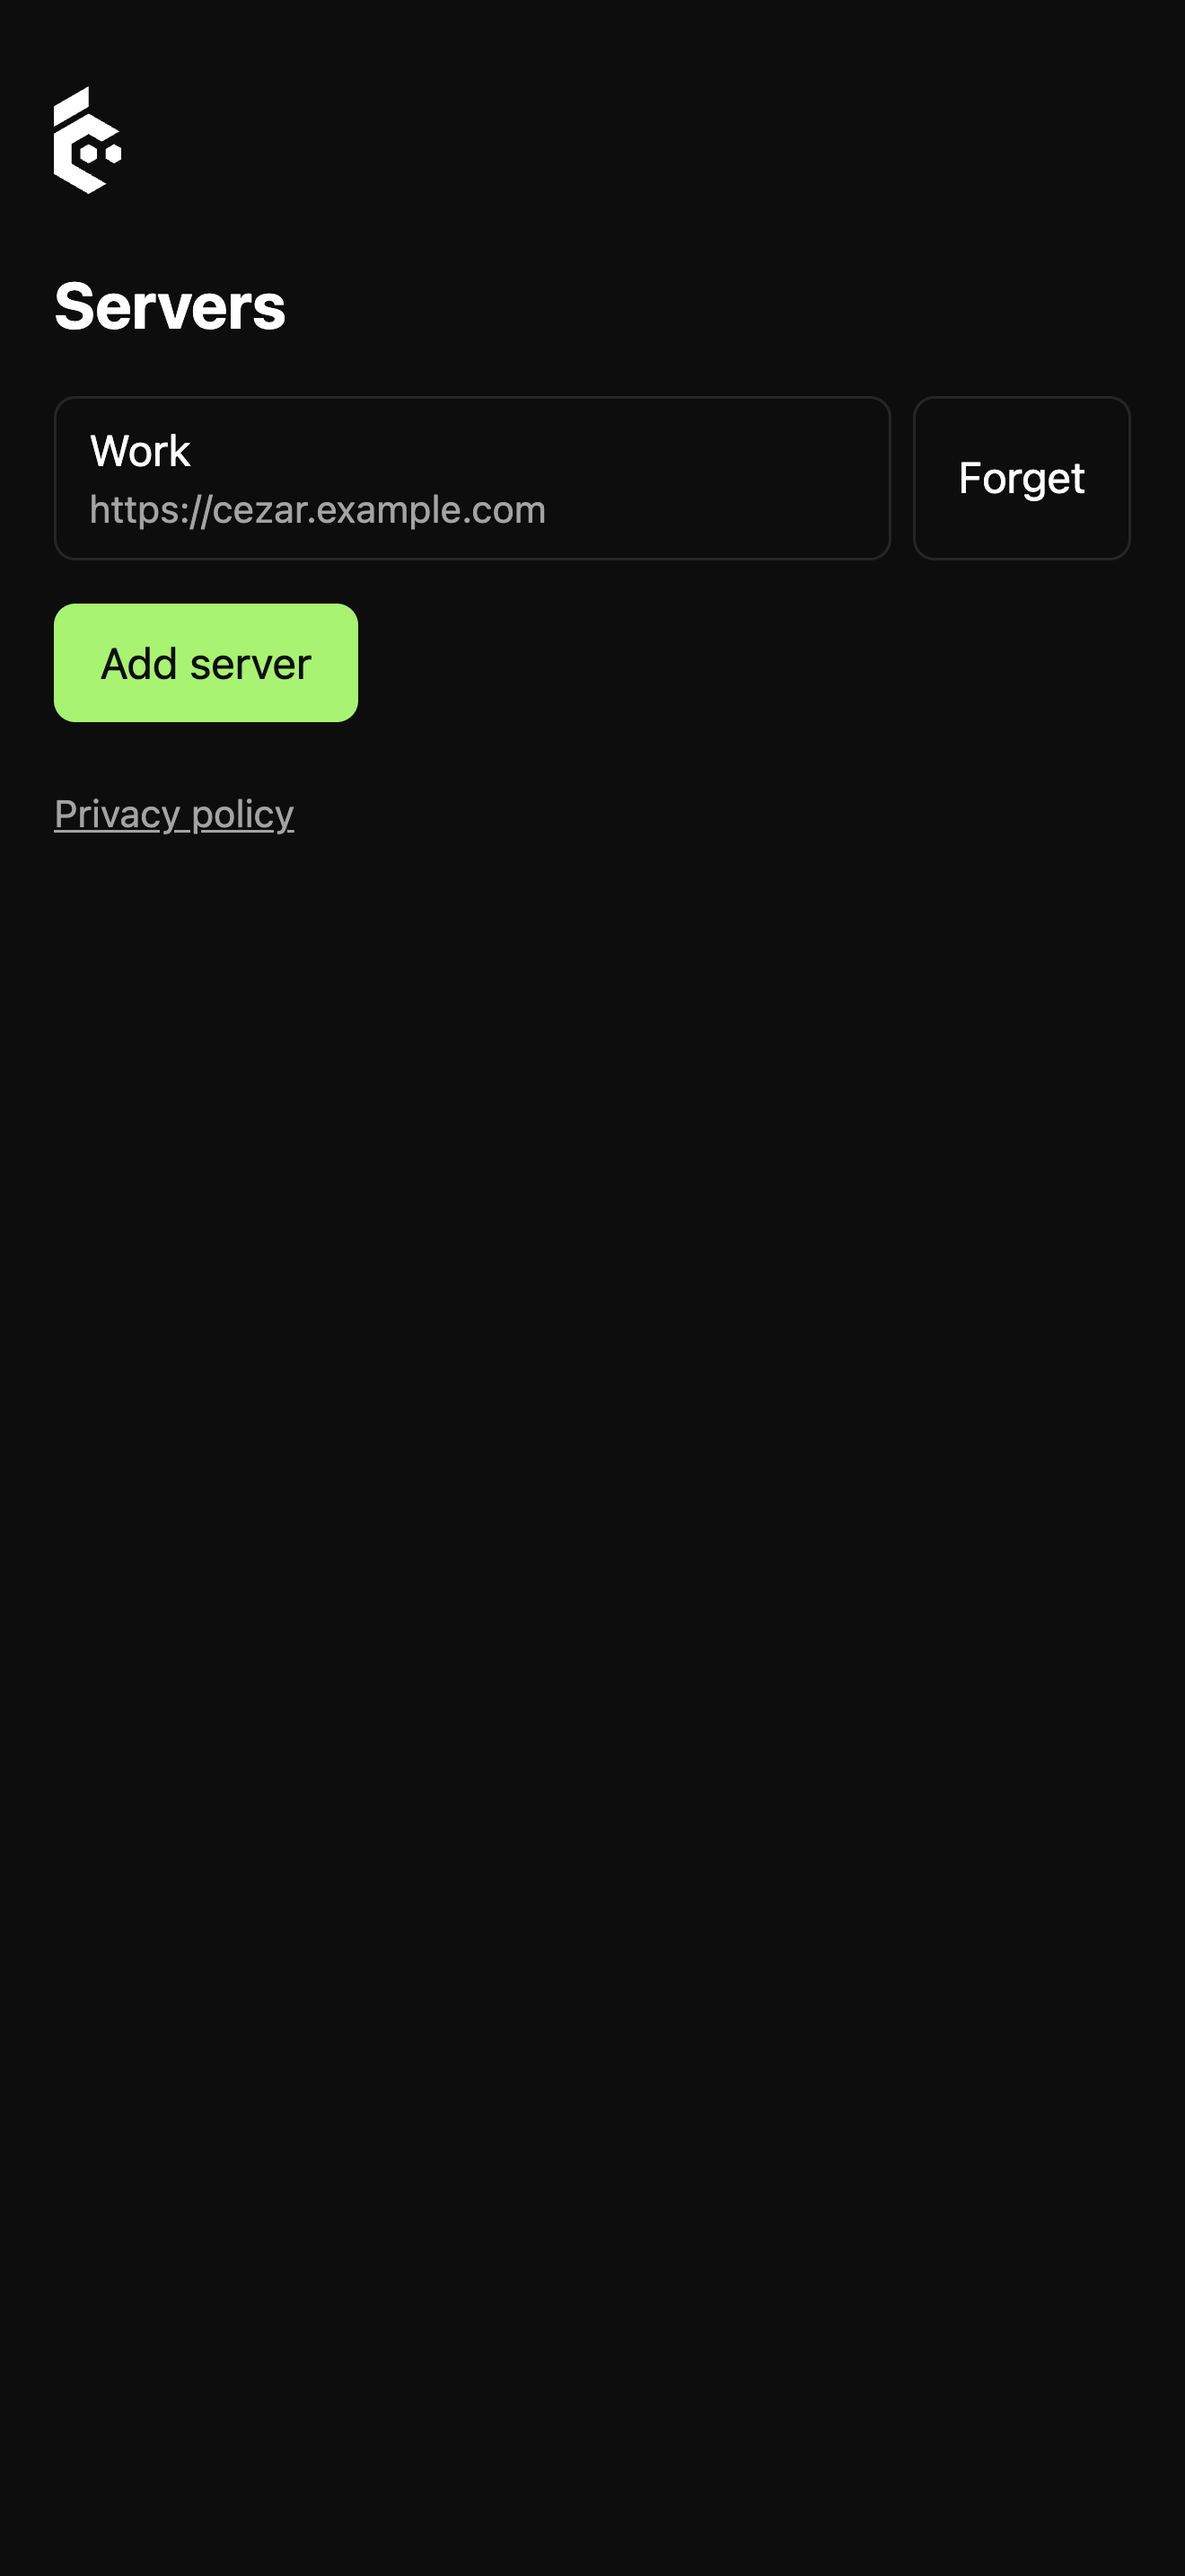
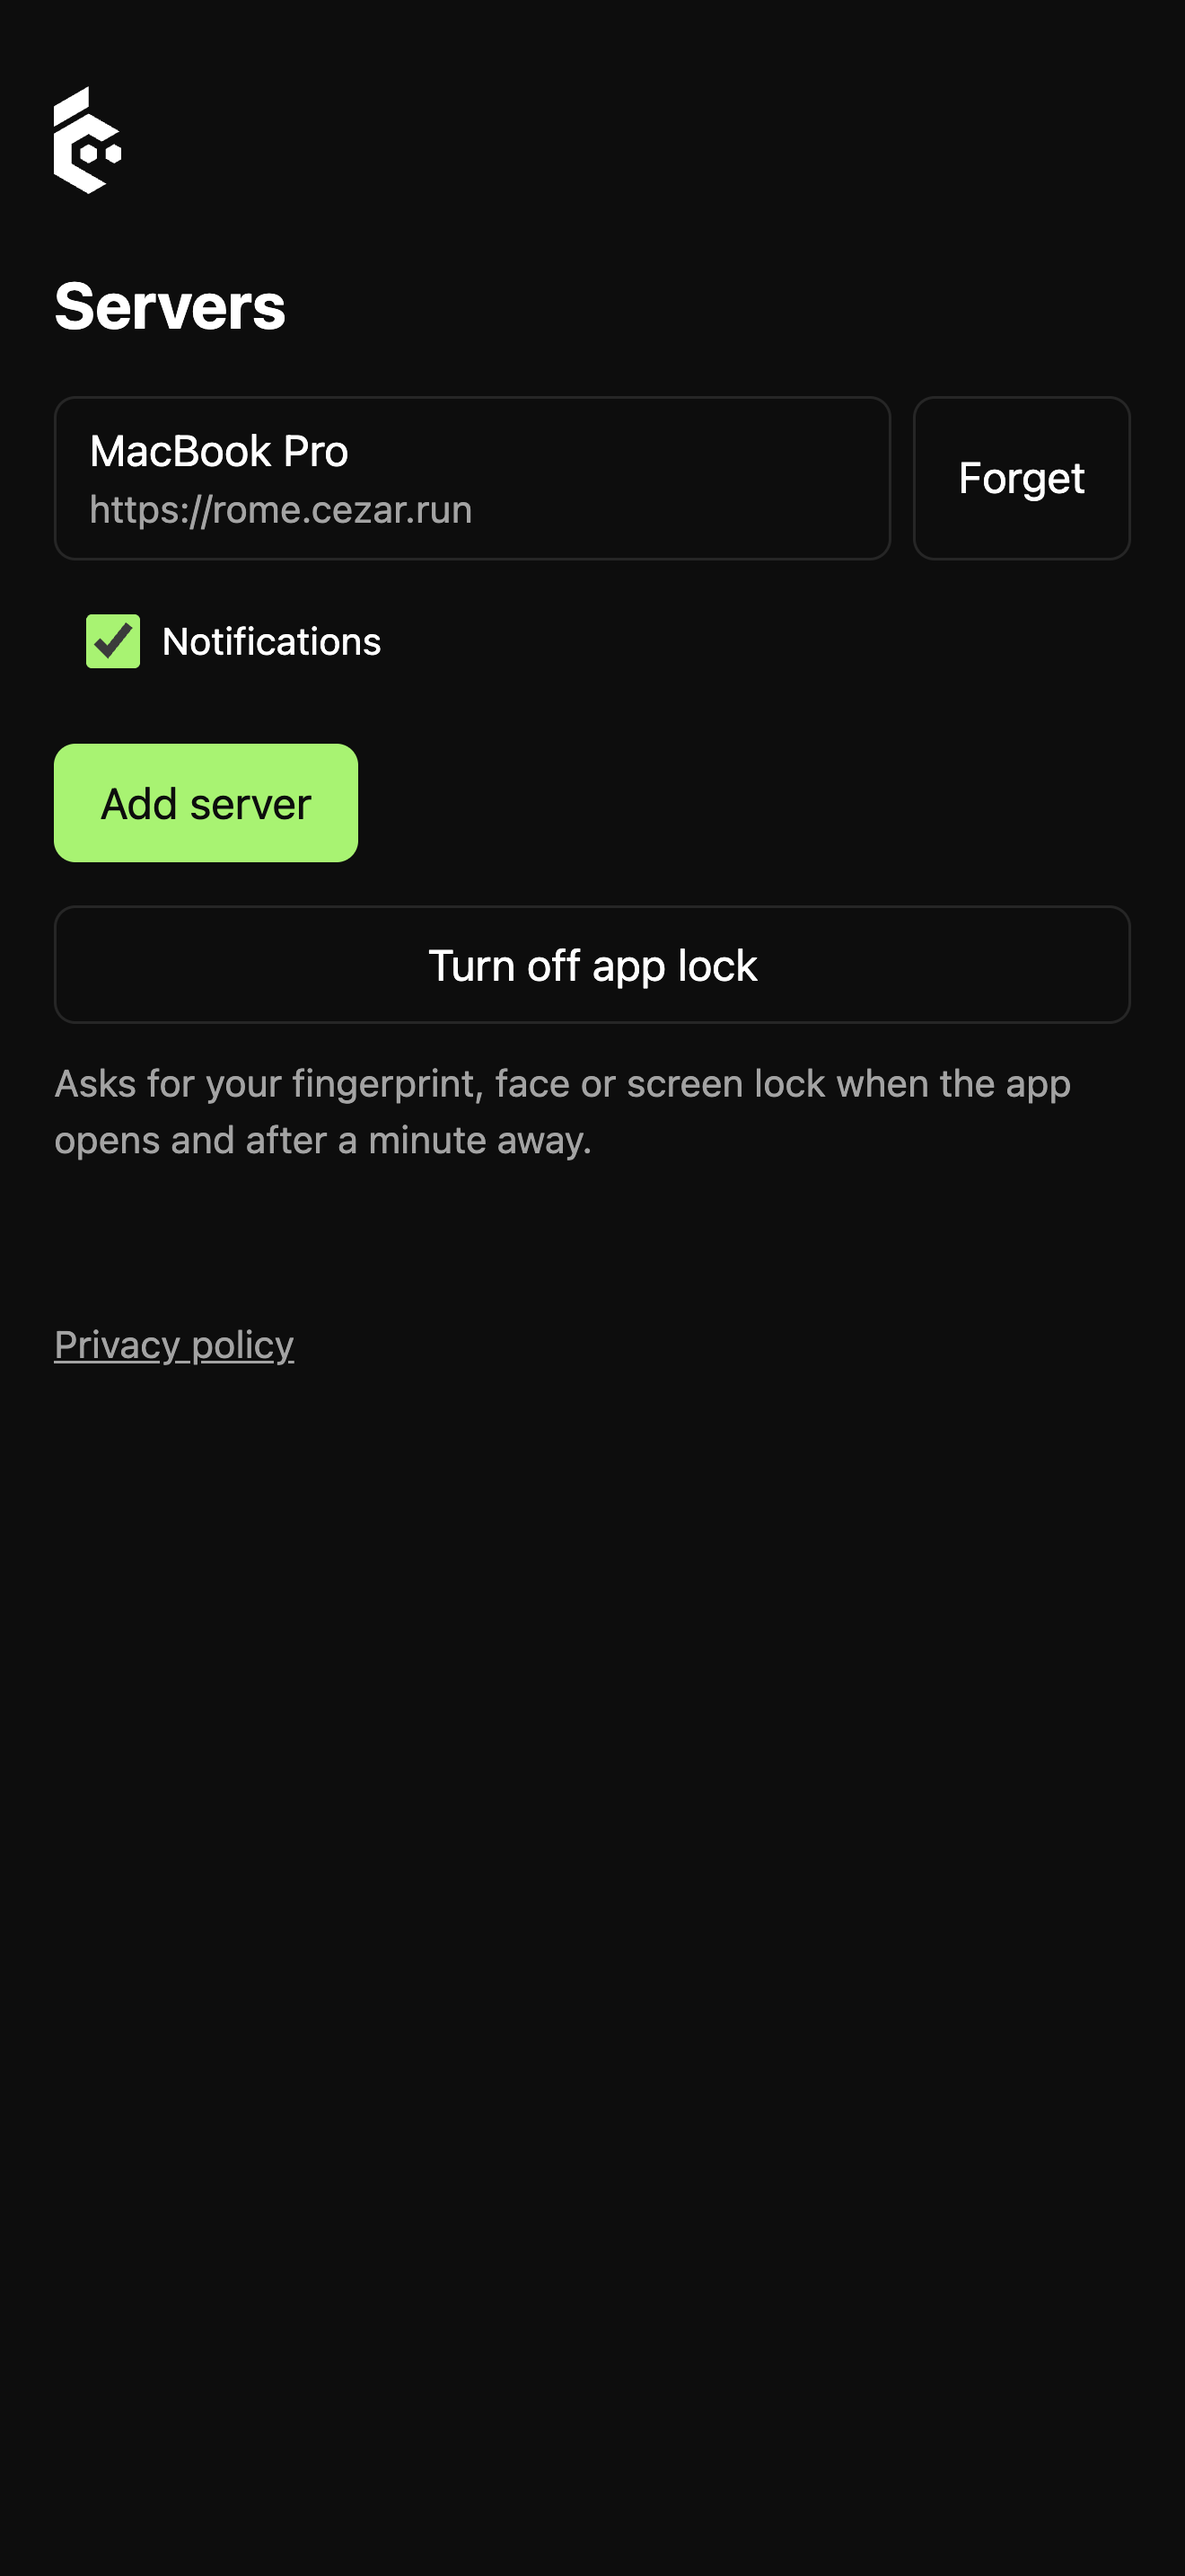
feat(mobile): iOS push entitlement, privacy manifest Device ID, iOS pairing in store assets

diff --git a/packages/mobile/connect/connect.js b/packages/mobile/connect/connect.js
@@ -10,7 +10,7 @@ let context = {};
 let cameFrom = null;
 // What Back does on the screen drawn now: the arrow, Android's Back and iOS's edge swipe all call it.
 let back = null;
-// Android only for now. iOS keeps the URL form until its client compiles.
+// Native reports it: true once the app has a relay client.
 let pairing = false;
 let lock = null;
 let relayDefault;

diff --git a/packages/mobile/README.md b/packages/mobile/README.md
@@ -144,7 +144,7 @@ is requested, while the switch and Stage 1 work as above. For Stage 2, a maintai
 3. Downloads its `google-services.json` into `packages/mobile/android/app/`. It is not a secret, but
    it is gitignored: do not commit it until Open Mercato owns the Firebase project. The build applies
    the google-services plugin only when the file exists.
-4. Gives the relay (`patzick/rome`) a service account key from the **same** Firebase project:
+4. Gives the relay (`open-mercato/rome`) a service account key from the **same** Firebase project:
    Project settings → Service accounts → Generate new private key, then
    `npx wrangler secret put FCM_SERVICE_ACCOUNT_JSON < key.json`. The relay also needs
    `GRANT_SEAL_KEY`, which seals the grants. Delete the downloaded key file afterwards.
@@ -174,10 +174,10 @@ Where it differs from Android:
 - **URLSession always offers `permessage-deflate`.** It cannot be removed, so the header is sent
   empty and a `101` naming any extension is refused (§ 3). It cannot read a refused upgrade's body, so a
   `503` falls back to `Retry-After` or jitter.
-- **Push** is APNs. Without the Push Notifications capability registration fails and push stays
-  off: Stage 1 still works. To turn Stage 2 on, add the capability in Xcode (it writes
-  `aps-environment` to an entitlements file), and give the relay an APNs key for the bundle ID
-  `com.openmercato.cezar.mobile`. The relay's payload carries `s` at the top level, beside `aps`.
+- **Push** is APNs. `App/App.entitlements` asks for `aps-environment`, so the App ID needs the Push
+  Notifications capability; if registration still fails, push stays off and Stage 1 still works. Stage 2
+  needs an APNs key at the relay for the bundle ID `com.openmercato.cezar.mobile`. The app reads `s`
+  at the top level of the payload, beside `aps`, so the relay must send it there.
 - No debug pairing route yet: pair with the camera, or type the code.
 
 ## Icons and splash

diff --git a/packages/mobile/store/screenshots/README.md b/packages/mobile/store/screenshots/README.md
@@ -11,9 +11,9 @@ node packages/mobile/store/scripts/screenshots.mjs --only graphics,connect --con
 ```
 
 The connect scenes need the relay pairing screens, so run them from the top of the mobile stack, or
-pass `--connect` a `packages/mobile/connect` directory that has them (`--ios-pairing` also shows them
-on iOS, once the iOS app can pair). The cockpit scenes boot this repo's cezar with `CEZ_DRY_RUN=1` in
-a throwaway `HOME` and `CEZ_HOME`, seed a demo shop project and a manager, and stop it afterwards.
+pass `--connect` a `packages/mobile/connect` directory that has them; both platforms show pairing. The
+cockpit scenes boot this repo's cezar with `CEZ_DRY_RUN=1` in a throwaway `HOME` and `CEZ_HOME`, seed a
+demo shop project and a manager, and stop it afterwards.
 
 | Set | Pixels | Store slot |
 | --- | --- | --- |
@@ -30,7 +30,7 @@ a throwaway `HOME` and `CEZ_HOME`, seed a demo shop project and a manager, and s
 | `02-task-live` | A running task's live chat |
 | `03-manager` | The Manager answering "what needs me" |
 | `04-connect` | The connect screen |
-| `05-pair-code` (Android) / `05-sign-in` (iOS) | Typing a pairing code / signing in to a direct server |
+| `05-pair-code` | Typing a pairing code |
 | `06-servers` | The server list with notifications and the app lock |
 
-The Android `06-servers` shows the default relay address, `rome.cezar.run`; retake it if that changes.
+`06-servers` shows the default relay address, `rome.cezar.run`; retake it if that changes.

diff --git a/packages/mobile/store/data-safety.md b/packages/mobile/store/data-safety.md
@@ -67,10 +67,11 @@ used to track across apps or websites, and the app never shows the App Tracking 
 
 Before the first iOS submission:
 
-- These answers describe Android. iOS has no relay client or push until the iOS half of #1901
-  lands; re-read its code and redo this table for the build you submit.
+- On iOS the Device ID row is the relay device ID, public keys and the APNs token; there is no
+  Firebase. Re-read the iOS code against this table for the build you submit.
 - Apple's privacy manifest is `ios/App/App/PrivacyInfo.xcprivacy`: no tracking, no tracking domains,
-  and `UserDefaults` for the app's own flags (reason `CA92.1`). Its collected data types must match the
+  Device ID collected for app functionality, not linked and not tracking, and `UserDefaults` for the
+  app's own flags (reason `CA92.1`). Its collected data types must match the
   table above; re-read it, and the manifest of any SDK the build adds, before each submission.
 - **Export compliance** (asked for every build, or set `ITSAppUsesNonExemptEncryption` in
   `Info.plist`): the app implements end-to-end encryption with standard algorithms (Noise with

diff --git a/RELEASING-MOBILE.md b/RELEASING-MOBILE.md
@@ -123,8 +123,8 @@ be updated by one. Say that wherever the APK is linked. Publish the draft GitHub
 ## 3. iOS, once
 
 1. **Identifier**: https://developer.apple.com/account/resources/identifiers > **+** > App IDs > App,
-   explicit bundle ID `com.openmercato.cezar.mobile`, description `cezar`. Tick **Push Notifications**
-   when iOS push lands.
+   explicit bundle ID `com.openmercato.cezar.mobile`, description `cezar`. Tick **Push Notifications**:
+   the app's `App.entitlements` asks for `aps-environment`, and signing fails without it.
 2. **App record**: App Store Connect > **Apps > + > New App**: iOS, name `cezar` (if taken, `cezar:
    coding agents`), primary language English (U.S.), the bundle ID above, SKU `cezar-mobile`, full
    access.

diff --git a/packages/mobile/store/listing.md b/packages/mobile/store/listing.md
@@ -90,5 +90,4 @@ First release: pair with cezar by QR code or typed code, connect directly to a h
 - Notifications while the app is closed need Firebase on Android (`GOOGLE_SERVICES_JSON`) and push on
   iOS. If a build ships without them, change "the phone tells you" to "the app tells you while it is
   open", or Apple's guideline 2.3.1 (accurate metadata) applies.
-- The iOS app has no relay client until #1901's iOS half lands. Do not submit this text for an iOS
-  build that cannot pair by QR code.
+- Both apps pair by QR code. Do not submit this text for a build that cannot.

diff --git a/packages/mobile/store/reviewer-notes.md b/packages/mobile/store/reviewer-notes.md
@@ -20,8 +20,7 @@ by `packages/mobile/demo/` (README there). Before pasting, replace `cezar-demo.e
 
 ## The notes text
 
-Delete the "Optional: pairing" part if the build has no relay client (iOS until #1901's iOS half
-lands) or the demo runs with `DEMO_RELAY=0`.
+Delete the "Optional: pairing" part if the demo runs with `DEMO_RELAY=0`.
 
 <!-- reviewer-notes -->
 ```text
